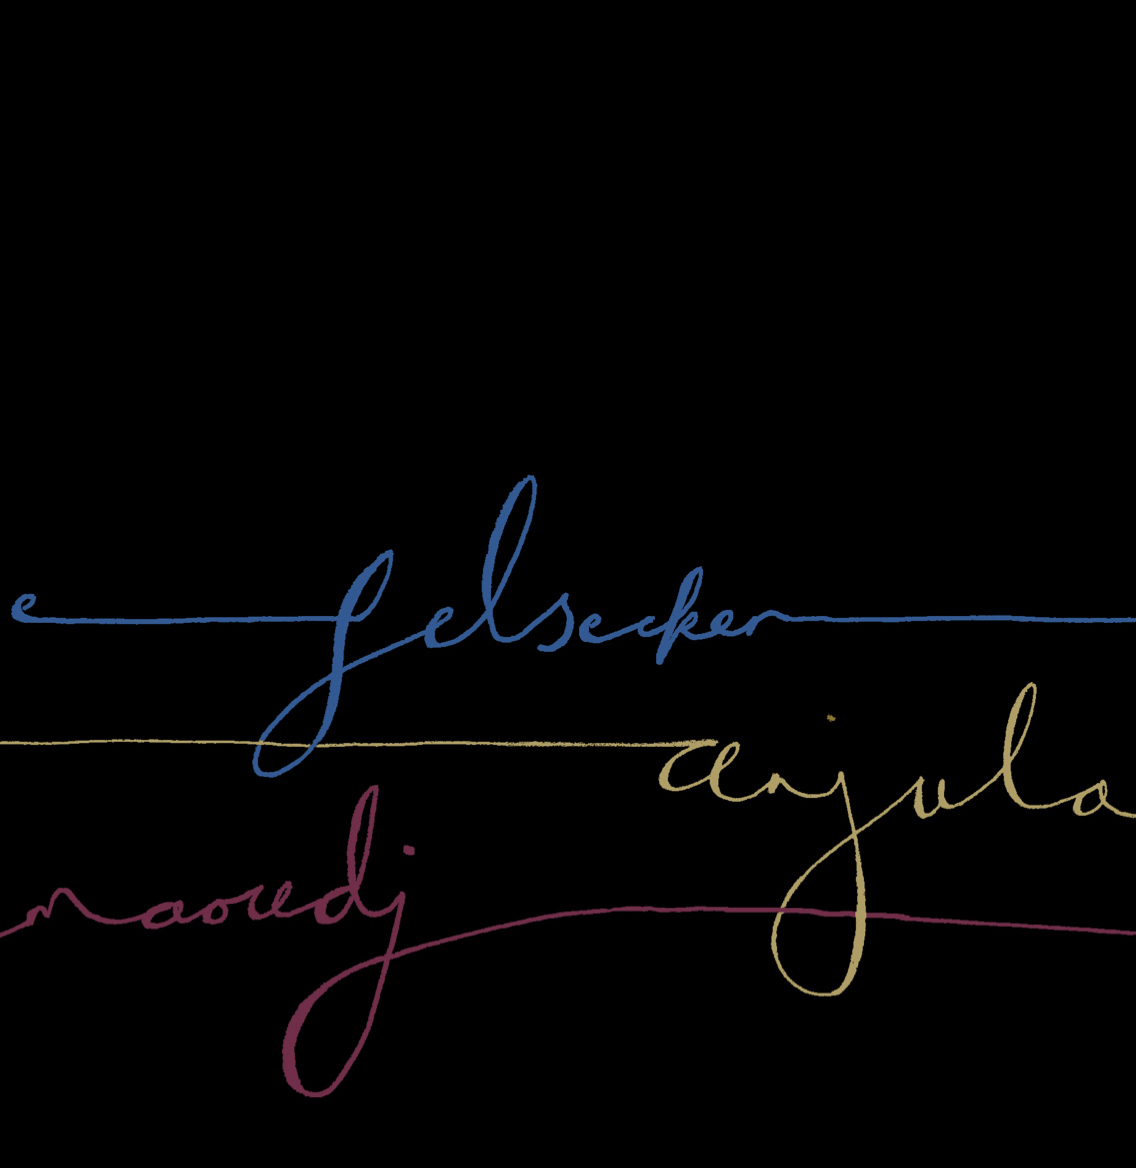
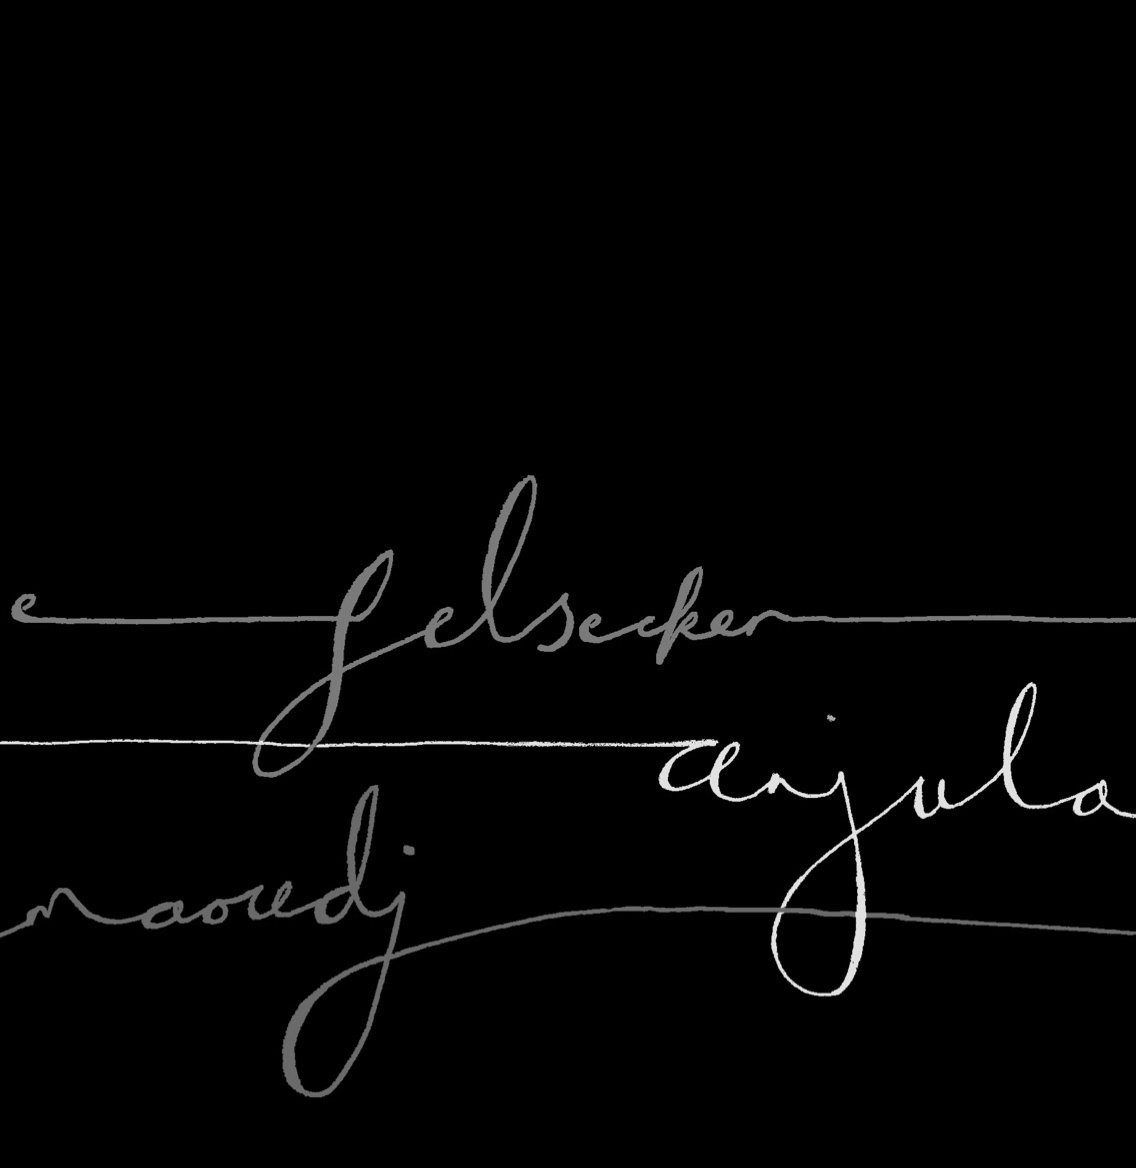
Black and White

diff --git a/stylesheet.css b/stylesheet.css
@@ -103,7 +103,7 @@ td{
   background-color: black;
   opacity: 0.25;
   width:101.15%;
-  height: 90px;
+  height: 112px;
   border:1px dashed;
 }
 
